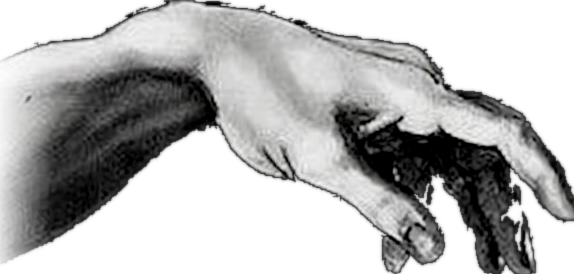
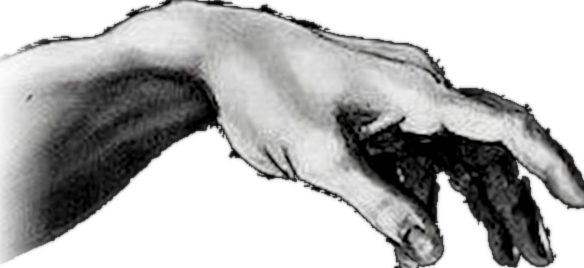
Scenes: realistic rain, intact fingertips, no black bar in fireflies
- rain: new shader with stick-slip sliding drops and static drops, beaded
  trails that wipe condensation, refraction through a lens normal with
  rim and lit lower edge, city bokeh kept inside its cells, falling rain
  outside; new fog, size and rainfall settings
- hands: cutouts recut from the frame with the widest gap; cut-hands.sh
  splits at the real gap between the hands instead of the center line
- fireflies: the ground is a gradient meadow edge with layered grass
  instead of a solid black strip

diff --git a/scenes/rain.html b/scenes/rain.html
@@ -17,20 +17,28 @@
 const CONFIG = {
   colors: ['#0a1018', '#1b3350', '#d97757', '#ffd27a'],   // night, blue, warm light, bright light
   lights: 0.9,          // how many bokeh city lights behind the glass
-  drops: 1.0,           // droplet density
-  trails: 0.6,          // running streaks
+  drops: 1.0,           // how many drops run down the glass
+  size: 1.0,            // drop size
+  trails: 0.5,          // how much of a wet trail a drop leaves
+  fog: 0.55,            // condensation on the glass (drops and trails wipe it clear)
   blur: 0.7,            // how blurry the world behind the glass is
+  rainfall: 0.6,        // rain streaks falling in the city behind the glass
   speed: 1.0,
   resolution: 0.6, fps: 30,
 };
 const SCHEMA = { groups: [
   { label: 'Colors', fields: [ { key: 'colors', type: 'colors', label: 'Night → lights' } ]},
   { label: 'Glass', fields: [
-    { key: 'drops', type: 'range', label: 'Droplets', min: 0, max: 2, step: 0.05 },
+    { key: 'drops', type: 'range', label: 'Drops', min: 0, max: 2, step: 0.05 },
+    { key: 'size', type: 'range', label: 'Drop size', min: 0.5, max: 2, step: 0.05 },
     { key: 'trails', type: 'range', label: 'Trails', min: 0, max: 1.5, step: 0.05 },
+    { key: 'fog', type: 'range', label: 'Condensation', min: 0, max: 1, step: 0.05 },
+    { key: 'speed', type: 'range', label: 'Speed', min: 0.1, max: 3, step: 0.05 },
+  ]},
+  { label: 'Outside', fields: [
     { key: 'lights', type: 'range', label: 'City lights', min: 0, max: 2, step: 0.05 },
     { key: 'blur', type: 'range', label: 'Background blur', min: 0, max: 1, step: 0.05 },
-    { key: 'speed', type: 'range', label: 'Speed', min: 0.1, max: 3, step: 0.05 },
+    { key: 'rainfall', type: 'range', label: 'Falling rain', min: 0, max: 1.5, step: 0.05 },
   ]},
   { label: 'Performance', fields: [
     { key: 'resolution', type: 'range', label: 'Render scale', min: 0.2, max: 1, step: 0.05 },
@@ -39,85 +47,154 @@ const SCHEMA = { groups: [
 ]};
 LTW.setup(CONFIG, SCHEMA, { change(k) { if (k === 'resolution') G.resize(CONFIG.resolution); else setUniforms(); } });
 // ------------------------------------------
+// Rain on a window at night. Three layers of cells each hold one drop that slides down in a stick-slip
+// motion and leaves a trail of droplets; static drops sit on the glass; condensation fogs the view and
+// every drop or trail wipes it clear, so the city shows sharp and bright through the water. Inside a drop
+// the world is refracted (flipped and magnified through a lens-shaped normal) with a rim and a highlight.
 const FS = `
-uniform float T, LI, DR, TR, BL; uniform vec3 C0, C1, C2, C3;
+uniform float T, LI, DR, SZ, TR, FG, BL, RF; uniform vec3 C0, C1, C2, C3;
 float h(vec2 p){ return fract(sin(dot(p, vec2(127.1, 311.7))) * 43758.5453); }
-float n(vec2 p){ vec2 i = floor(p), f = fract(p); f = f*f*(3.0-2.0*f);
+float h1(float p){ return fract(sin(p * 127.1) * 43758.5453); }
+float n2(vec2 p){ vec2 i = floor(p), f = fract(p); f = f*f*(3.0-2.0*f);
   return mix(mix(h(i), h(i+vec2(1,0)), f.x), mix(h(i+vec2(0,1)), h(i+vec2(1,1)), f.x), f.y); }
-// the city behind the glass: a dark gradient with blurry bokeh lights in rows
+float S(float a, float b, float x){ return smoothstep(a, b, x); }
+
+// The city behind the glass: sky gradient, rows of bokeh lights (warm and cool), a wet street glow
+// at the bottom, and rain streaks falling through the light. blur in 0..1 widens the bokeh discs.
 vec3 world(vec2 uv, float blur) {
-  vec3 col = mix(C0, C1, smoothstep(0.1, 0.9, uv.y) * 0.8 + 0.1 * n(uv * 3.0));
-  col = mix(col, C1 * 0.6, smoothstep(0.55, 0.2, uv.y));
+  vec3 col = mix(C0, C1, S(0.05, 0.95, uv.y) * 0.75 + 0.12 * n2(uv * 2.5 + T * 0.01));
+  col = mix(col, C1 * 0.45, S(0.5, 0.15, uv.y));                       // darker street level
+  col += C2 * 0.06 * S(0.3, 0.0, uv.y);                                 // sodium glow near the ground
   for (int i = 0; i < 3; i++) {
     float fi = float(i);
-    vec2 g = uv * vec2(14.0 + fi * 6.0, 9.0 + fi * 4.0) + fi * 7.3;
+    float depth = 1.0 - fi * 0.28;                                        // far rows are smaller and denser
+    vec2 g = uv * vec2(11.0 + fi * 7.0, 7.0 + fi * 5.0) + fi * 7.3;
     vec2 id = floor(g); float r = h(id + fi);
-    if (r > 1.0 - 0.18 * LI) {
-      vec2 c = fract(g) - 0.5 - (vec2(h(id + 1.1), h(id + 2.2)) - 0.5) * 0.5;
-      float d = length(c);
-      float rad = 0.12 + 0.15 * blur + 0.1 * h(id + 3.3);
-      float glow = smoothstep(rad, rad * (0.3 - 0.25 * blur), d);
+    if (r > 1.0 - 0.2 * LI) {
+      // keep every disc (and its halo) inside its cell so bokeh never shows a square edge
+      vec2 c = fract(g) - 0.5 - (vec2(h(id + 1.1), h(id + 2.2)) - 0.5) * 0.2;
+      float d = length(c * vec2(1.0, 1.4));
+      float rad = min(0.3, (0.07 + 0.08 * h(id + 3.3)) * depth * (1.0 + 1.2 * blur));
+      float disc = S(rad, rad * (0.55 - 0.45 * blur), d);
+      disc += S(min(0.42, rad * 1.8), 0.0, d) * 0.12 * blur;              // soft halo
       vec3 lc = mix(C2, C3, h(id + 4.4));
-      col += lc * glow * (0.5 + 0.5 * h(id + 5.5)) * smoothstep(0.75, 0.3, uv.y) * (0.85 + 0.15 * sin(T * (1.0 + r) + r * 20.0));
+      if (h(id + 6.6) > 0.78) lc = mix(lc, C1 * 2.2, 0.8);               // a few cool white/blue lights
+      float flicker = 0.85 + 0.15 * sin(T * (1.0 + r * 2.0) + r * 20.0);
+      col += lc * disc * (0.45 + 0.55 * h(id + 5.5)) * S(0.8, 0.25, uv.y) * flicker * depth;
     }
+  }
+  // street reflections: vertical smears of the lights' color near the bottom
+  col += C2 * 0.18 * S(0.25, 0.0, uv.y) * (0.5 + 0.5 * n2(vec2(uv.x * 40.0, uv.y * 6.0 - T * 0.2)));
+  // falling rain in the city: fast thin streaks, two depths
+  for (int i = 0; i < 2; i++) {
+    float fi = float(i);
+    vec2 s = uv * vec2(90.0 + fi * 60.0, 2.2 + fi) ;
+    s.y += T * (2.6 + fi * 1.2);
+    s.x += uv.y * 0.15;                                                   // slight slant
+    vec2 sid = floor(s); float sr = h(sid + fi * 3.0);
+    float streak = S(0.07, 0.0, abs(fract(s.x) - 0.5) - 0.01) * S(0.9, 0.25, fract(s.y)) * step(0.8, sr);
+    col += vec3(0.55, 0.65, 0.8) * streak * 0.14 * RF * (0.6 - fi * 0.25);
   }
   return col;
 }
-// One layer of drops. Returns (normal.xy, drop mask, trail mask). Cells are tall; each has a drop
-// that slides down in a stick–slip motion and leaves smaller droplets above it.
-vec4 layer(vec2 uv, float t, float scale, float seed) {
-  vec2 asp = vec2(3.0, 1.0);
+
+// Lens normal and masks for one drop at p (cell units, drop centered at 0) with radius sz.
+// A drop is a disc with a short tail above it (the water it is pulling along).
+vec4 drop(vec2 p, float sz, float tail) {
+  float d = length(p / vec2(1.0, 1.15));
+  float m = S(sz, sz * 0.82, d);
+  float t = tail > 0.0 ? S(sz * 0.65, 0.0, abs(p.x)) * S(sz * (1.0 + tail * 2.2), sz * 0.9, p.y) * step(0.0, p.y) * S(0.0, sz * 0.4, p.y) : 0.0;
+  float mask = max(m, t * 0.9);
+  float z = sqrt(max(0.0, 1.0 - (d / sz) * (d / sz)));                 // sphere height → stronger bend at the rim
+  vec2 nrm = (p / sz) * (1.0 - z * 0.55) * mask;
+  return vec4(nrm, mask, m);
+}
+
+// One layer of sliding drops: (normal.xy, drop mask, trail mask).
+vec4 sliding(vec2 uv, float t, float scale, float seed) {
+  vec2 asp = vec2(1.0, 1.0 / 2.6);                                        // tall cells (2.6× their width): room to slide
   vec2 g = uv * scale * asp;
   vec2 id = floor(g);
-  float r = h(id + seed);
+  float r = h(id + seed), r2 = h(id + seed + 7.0);
   vec2 f = fract(g) - 0.5;
-  // x wobbles slowly, y slides down with a pause (the drop "sticks" then slips)
-  float x = (r - 0.5) * 0.7;
-  float ty = t * (0.6 + r * 0.8) + r * 10.0;
-  float y = 0.5 - fract(ty) ;                            // 0.5 (top) → -0.5 (bottom)
-  y += 0.08 * sin(ty * 6.2831 * 3.0) * (1.0 - r);          // slip wobble
-  x += 0.08 * sin(ty * 6.2831 * 2.0 + r * 5.0);
-  vec2 p = (f - vec2(x, y)) * vec2(1.0, 0.75);           // squash so drops look round on a tall cell
-  float sz = 0.10 + 0.08 * h(id + seed + 2.0);
-  float d = length(p);
-  float mask = smoothstep(sz, sz * 0.85, d);
-  vec2 normal = (p / sz) * mask;
-  // trail: small drops along the path above the drop, fading with distance
-  float trail = 0.0;
-  vec2 tp = f - vec2(x, 0.0);
-  float above = smoothstep(0.0, 0.05, f.y - y);
-  float dots = smoothstep(0.03, 0.0, length(vec2(tp.x, fract((f.y - y) * 8.0) - 0.5) * vec2(1.0, 0.125)) - 0.012);
-  trail = dots * above * smoothstep(0.6, 0.0, f.y - y) * TR;
-  float on = step(1.0 - 0.75 * min(1.0, DR), r);          // not every cell has a drop
-  return vec4(normal, mask, trail) * on;
+  float on = step(1.0 - 0.7 * min(1.4, DR), r);                          // not every cell has a drop
+  // stick–slip: progress is time plus a noisy stair, so the drop pauses then lurches
+  float tt = t * (0.5 + r * 0.9) + r2 * 10.0;
+  float stair = floor(tt) + S(0.0, 0.6, fract(tt)) ;
+  float y = 0.5 - fract(stair * 0.37 + r2) ;                              // top → bottom, wraps
+  y *= 2.6;                                                                // cell is 2.6 tall in these units
+  float x = (r - 0.5) * 0.4 + 0.05 * sin(stair * 3.0 + r * 9.0);          // wobble sideways while slipping (stays inside the cell)
+  vec2 p = (f * vec2(1.0, 2.6)) - vec2(x, y);
+  float sz = (0.07 + 0.07 * r2) * SZ;
+  float moving = S(0.0, 0.25, fract(tt)) * S(0.8, 0.55, fract(tt));
+  vec4 d = drop(p, sz, 0.15 + moving * 0.45);
+  // trail: droplets left along the path above the drop, thinning out with distance
+  float above = max(0.0, p.y);
+  // only cells whose drop is fairly big leave a visible trail, and it thins out quickly
+  float along = S(0.0, 0.08, above) * S(0.9, 0.0, above) * S(0.08, 0.12, sz);
+  float wig = 0.02 * sin(above * 23.0 + r * 40.0);                            // the path wanders a little
+  float beads = S(0.028, 0.0, abs(p.x - wig) - 0.01) * S(0.5, 0.0, abs(fract(above * (7.0 + 5.0 * r2) + r * 3.0) - 0.5) - 0.2);
+  float trail = along * (0.15 + 0.85 * beads) * S(sz * 0.6, 0.0, abs(p.x)) * TR;
+  return vec4(d.xy, d.z, trail) * on;
 }
+
+// Static drops that sit on the glass, each fading in and out over a few seconds.
+vec4 sitting(vec2 uv, float t, float scale, float seed) {
+  vec2 g = uv * scale;
+  vec2 id = floor(g);
+  float r = h(id + seed), r2 = h(id + seed + 3.0);
+  vec2 f = fract(g) - 0.5 + (vec2(r, r2) - 0.5) * 0.4;
+  float life = fract(t * 0.05 * (0.5 + r2) + r * 7.0);
+  float vis = S(0.0, 0.15, life) * S(1.0, 0.7, life);
+  if (vis < 0.03 || r < 1.0 - 0.4 * min(1.4, DR)) return vec4(0.0);
+  float sz = (0.05 + 0.09 * r2) * SZ * vis;
+  return drop(f, sz, 0.0);
+}
+
 void main(){
   vec2 uv = gl_FragCoord.xy / R;
-  float t = T * 0.35;
-  vec4 a = layer(uv, t, 4.0, 0.0);
-  vec4 b = layer(uv + 0.37, t * 1.2, 7.0, 10.0);
-  vec4 c = layer(uv + 0.61, t * 0.8, 11.0, 20.0);
-  vec2 nrm = a.xy + b.xy * 0.8 + c.xy * 0.6;
-  float mask = max(a.z, max(b.z, c.z));
+  vec2 asp = vec2(R.x / R.y, 1.0);
+  vec2 q = uv * asp;                                                       // square cells regardless of aspect
+  float t = T * 0.6;
+  vec4 a = sliding(q, t, 4.0, 0.0);
+  vec4 b = sliding(q + 0.37, t * 1.25, 6.5, 10.0);
+  vec4 c = sliding(q + 0.61, t * 0.85, 10.0, 20.0);
+  vec4 s1 = sitting(q, T, 9.0, 30.0);
+  vec4 s2 = sitting(q + 0.29, T, 16.0, 40.0);
+  vec2 nrm = a.xy + b.xy * 0.75 + c.xy * 0.55 + s1.xy * 0.6 + s2.xy * 0.45;
+  float mask = max(max(a.z, b.z), max(c.z, max(s1.z, s2.z)));
   float trail = max(a.w, max(b.w, c.w));
   float wet = max(mask, trail);
-  // refraction: inside a drop the world is sharp, magnified and flipped a little; outside it is blurry
-  vec3 blurred = world(uv, BL);
-  vec3 sharp = world(uv - nrm * 0.12 - vec2(0.0, 0.03 * mask), BL * 0.15);
-  vec3 col = mix(blurred, sharp * 1.15, wet);
-  // shading: darker rim, bright highlight on the upper-left of each drop
-  float rim = smoothstep(0.55, 1.0, length(nrm)) * mask;
-  col *= 1.0 - rim * 0.35;
-  float hi = smoothstep(0.35, 0.0, length(nrm - vec2(-0.45, 0.45))) * mask;
-  col += vec3(0.9, 0.95, 1.0) * hi * 0.35;
-  col *= 0.9 + 0.2 * (1.0 - length(uv - 0.5));
-  col += (h(gl_FragCoord.xy + fract(T)) - 0.5) * 0.015;
+  // condensation: fog over the whole glass, wiped where water is (and slowly regrowing after)
+  float fog = FG * (0.85 + 0.15 * n2(q * 3.0 + T * 0.02)) * (1.0 - S(0.0, 0.6, trail) * 0.85) * (1.0 - mask);
+  // the world: blurry and washed out through the fog, sharp and bright through water
+  float blurAmt = clamp(BL + fog * 0.6, 0.0, 1.0);
+  vec3 blurred = world(uv, blurAmt);
+  blurred = mix(blurred, vec3(dot(blurred, vec3(0.333))) * 0.9 + C1 * 0.25, fog * 0.5);       // fog lifts the blacks and dulls color
+  vec3 sharp = world(uv - nrm * 0.045 * (1.0 + mask) - vec2(0.0, 0.018 * mask), BL * 0.12);   // flipped/magnified through the lens
+  vec3 col = mix(blurred, sharp * 1.5 + C1 * 0.04, S(0.0, 0.35, max(mask, trail * 0.6)));
+  // drop shading: dark lower-right rim, bright upper-left highlight, a thin specular dot
+  float nl = length(nrm);
+  float rim = S(0.4, 1.0, nl) * mask;
+  col *= 1.0 - rim * 0.6;
+  float hi = S(0.4, 0.0, length(nrm - vec2(-0.5, 0.45))) * mask;
+  col += vec3(0.9, 0.95, 1.0) * hi * 0.3;
+  // a drop is a lens: its lower half gathers the light from above and glows, its top goes dark
+  col += (C3 * 0.5 + 0.5) * S(0.15, 0.85, -nrm.y) * S(0.3, 0.9, nl) * mask * 0.28;
+  col *= 1.0 - S(0.2, 0.9, nrm.y) * S(0.3, 0.9, nl) * mask * 0.35;
+  col += vec3(1.0) * S(0.12, 0.0, length(nrm - vec2(-0.62, 0.62))) * mask * 0.5;
+  // trails catch a little light along their edge
+  col += C3 * trail * 0.04;
+  // glass: slight vignette and film grain
+  col *= 0.88 + 0.22 * (1.0 - length(uv - 0.5));
+  col += (h(gl_FragCoord.xy + fract(T)) - 0.5) * 0.02;
   gl_FragColor = vec4(col, 1.0);
 }`;
 const G = GL(document.getElementById('c'), FS);
 function setUniforms() {
   G.colors('C', CONFIG.colors, 4);
-  G.uniform('LI', CONFIG.lights); G.uniform('DR', CONFIG.drops); G.uniform('TR', CONFIG.trails); G.uniform('BL', CONFIG.blur);
+  G.uniform('LI', CONFIG.lights); G.uniform('DR', CONFIG.drops); G.uniform('SZ', CONFIG.size); G.uniform('TR', CONFIG.trails);
+  G.uniform('FG', CONFIG.fog); G.uniform('BL', CONFIG.blur); G.uniform('RF', CONFIG.rainfall);
 }
 setUniforms(); G.resize(CONFIG.resolution); addEventListener('resize', () => G.resize(CONFIG.resolution));
 let t = 0;

diff --git a/scenes/fireflies.html b/scenes/fireflies.html
@@ -66,17 +66,24 @@ function build() {
   // grass silhouette drawn once
   grass = null;
   if (CONFIG.grass) {
+    // A meadow edge, not a black bar: the ground is a dark version of the sky's bottom color with a
+    // soft top, and the blades lean in two layers of slightly different darkness.
     grass = document.createElement('canvas'); grass.width = W; grass.height = H;
     const g = grass.getContext('2d');
-    g.fillStyle = '#000';
+    const [br, bg, bb] = [1, 3, 5].map(i => parseInt(CONFIG.bgBottom.slice(i, i + 2), 16) || 0);
+    const dark = (k, a = 1) => `rgba(${Math.round(br * k)},${Math.round(bg * k)},${Math.round(bb * k)},${a})`;
+    const groundY = H * 0.93;
+    const gr = g.createLinearGradient(0, groundY - H * 0.04, 0, H);
+    gr.addColorStop(0, dark(0.55, 0)); gr.addColorStop(0.25, dark(0.45, 0.9)); gr.addColorStop(1, dark(0.12));
+    g.fillStyle = gr; g.fillRect(0, groundY - H * 0.04, W, H);
     for (let layer = 0; layer < 2; layer++) {
-      const baseY = H * (0.9 + layer * 0.06), hgt = H * (0.09 - layer * 0.03);
-      for (let x = -20; x < W + 20; x += 3 * dpr) {
-        const h = hgt * (0.4 + Math.random() * 0.6), lean = (Math.random() - 0.5) * 20 * dpr;
-        g.beginPath(); g.moveTo(x, baseY); g.quadraticCurveTo(x + lean * 0.5, baseY - h * 0.6, x + lean, baseY - h);
-        g.lineWidth = (1 + Math.random()) * dpr; g.strokeStyle = layer ? '#000' : '#02050399'; g.stroke();
+      const baseY = H * (0.905 + layer * 0.04), hgt = H * (0.1 - layer * 0.035);
+      g.strokeStyle = layer ? dark(0.18) : dark(0.3, 0.75);
+      for (let x = -20; x < W + 20; x += 2.5 * dpr) {
+        const h = hgt * (0.35 + Math.random() * 0.65), lean = (Math.random() - 0.5) * 24 * dpr;
+        g.beginPath(); g.moveTo(x, baseY + 2 * dpr); g.quadraticCurveTo(x + lean * 0.5, baseY - h * 0.6, x + lean, baseY - h);
+        g.lineWidth = (0.8 + Math.random() * 1.2) * dpr; g.stroke();
       }
-      g.fillRect(0, baseY, W, H - baseY);
     }
   }
 }

diff --git a/README.md b/README.md
@@ -178,10 +178,13 @@ Included:
 - **aurora** – a slow WebGL noise shader with five editable colors.
 - **nebula** – deep-space clouds and twinkling stars in three parallax layers that follow the mouse.
 - **synthwave** – striped retro sun, neon mountains and a scrolling perspective grid; the sun pumps to the bass. ♪
-- **rain** – rain on a window at night: droplets slide and leave trails over blurry city lights.
+- **rain** – rain on a window at night: drops sit on the glass and slide down in stick-slip lurches,
+  leaving beaded trails that wipe the condensation; the city's bokeh lights refract through each drop
+  (flipped and magnified, dark rim, lit lower edge) while thin rain falls outside. Drops, size, trails,
+  condensation, lights, blur and falling rain are all sliders.
 - **liquid** – slow swirling fluid colors with a sheen; swells with the music. ♪
 - **warp** – hyperspace star streaks; the mouse steers, the bass hits the throttle. ♪
-- **fireflies** – glowing fireflies drifting over a dark meadow; they gather around the mouse.
+- **fireflies** – glowing fireflies drifting over a dark meadow edge; they gather around the mouse.
 - **terrain** – a neon wireframe landscape you fly over; the mouse tilts the camera.
 - **visualizer** – a system-audio spectrum as bars, a ring or a wave, with afterglow and beat flashes. ♪
 - **topo** – topographic contour lines, computed on the GPU.
@@ -210,9 +213,14 @@ what the Customize window shows.
 (points left), transparent PNGs. To make your own from any clip with a black background:
 
 ```bash
-tools/cut-hands.sh "/path/to/clip.mp4" 0.3      # frame time in seconds; needs ffmpeg
+tools/cut-hands.sh "/path/to/clip.mp4" 1.2 0.04 2500   # frame time, tolerance, min_area; needs ffmpeg
 ./ltw reload
 ```
+
+Pick a frame where the hands are far apart. The script splits the frame where the gap between the
+hands actually is (the widest empty column run of the matte), not at the center line, so a fingertip
+that crosses the middle is never cut off; a low tolerance keeps a fingertip that sits in shadow, and a
+large `min_area` throws away the clip's own floating particles.
 
 Extra arguments: `tolerance` (brightness below which a pixel can be background, default 0.05),
 `min_area` (opaque specks smaller than this many pixels are dropped, default 400) and `edge` (pixels of
